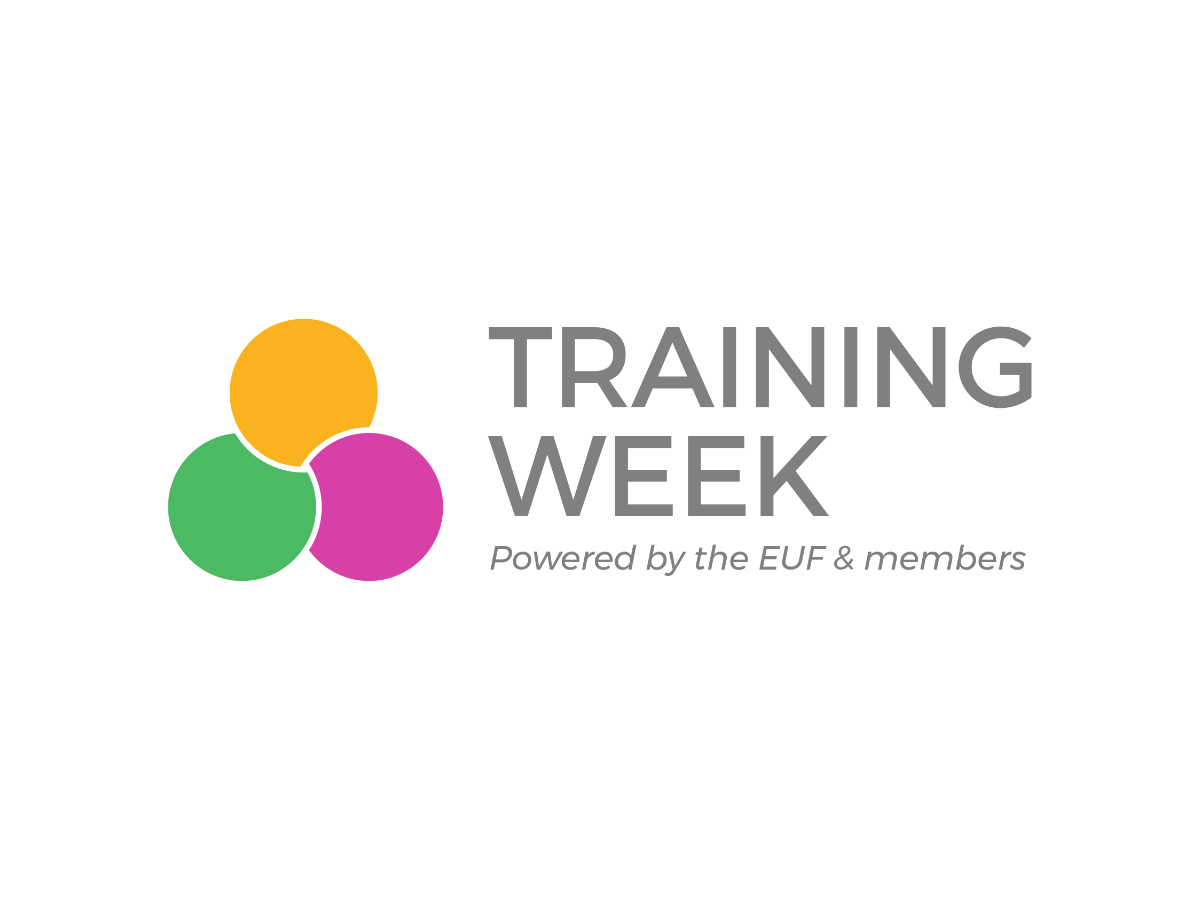
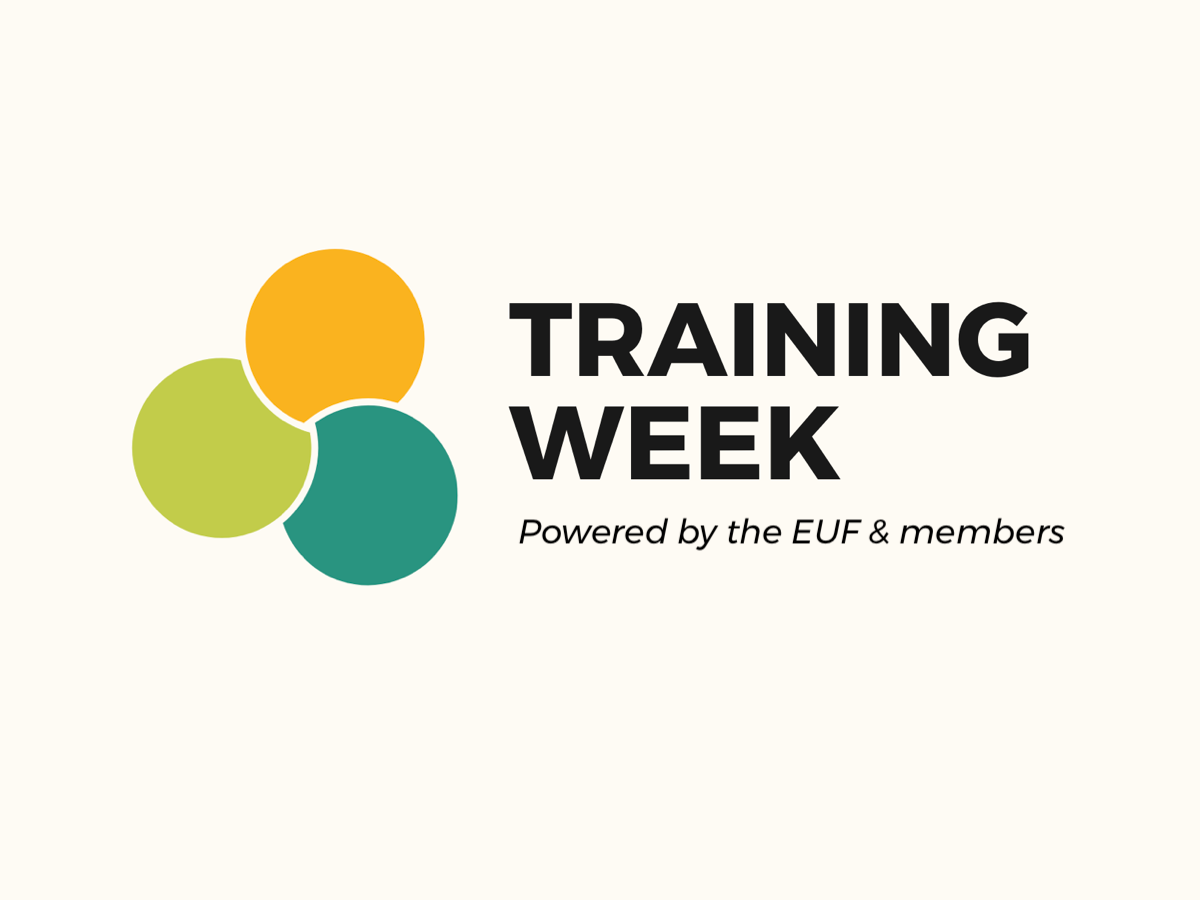
update screenshot.png

Changed region(s): [[0.0925, 0.28, 0.8942, 0.6533]]

diff --git a/style.css b/style.css
@@ -6,7 +6,7 @@ Author:       EUF
 Template:     Divi
 GitHub Theme URI: https://github.com/NataliaMatt/Trainings
 Primary Branch: main
-Version:      2.0.0
+Version:      2.0.1
 */
 
 #main-content {